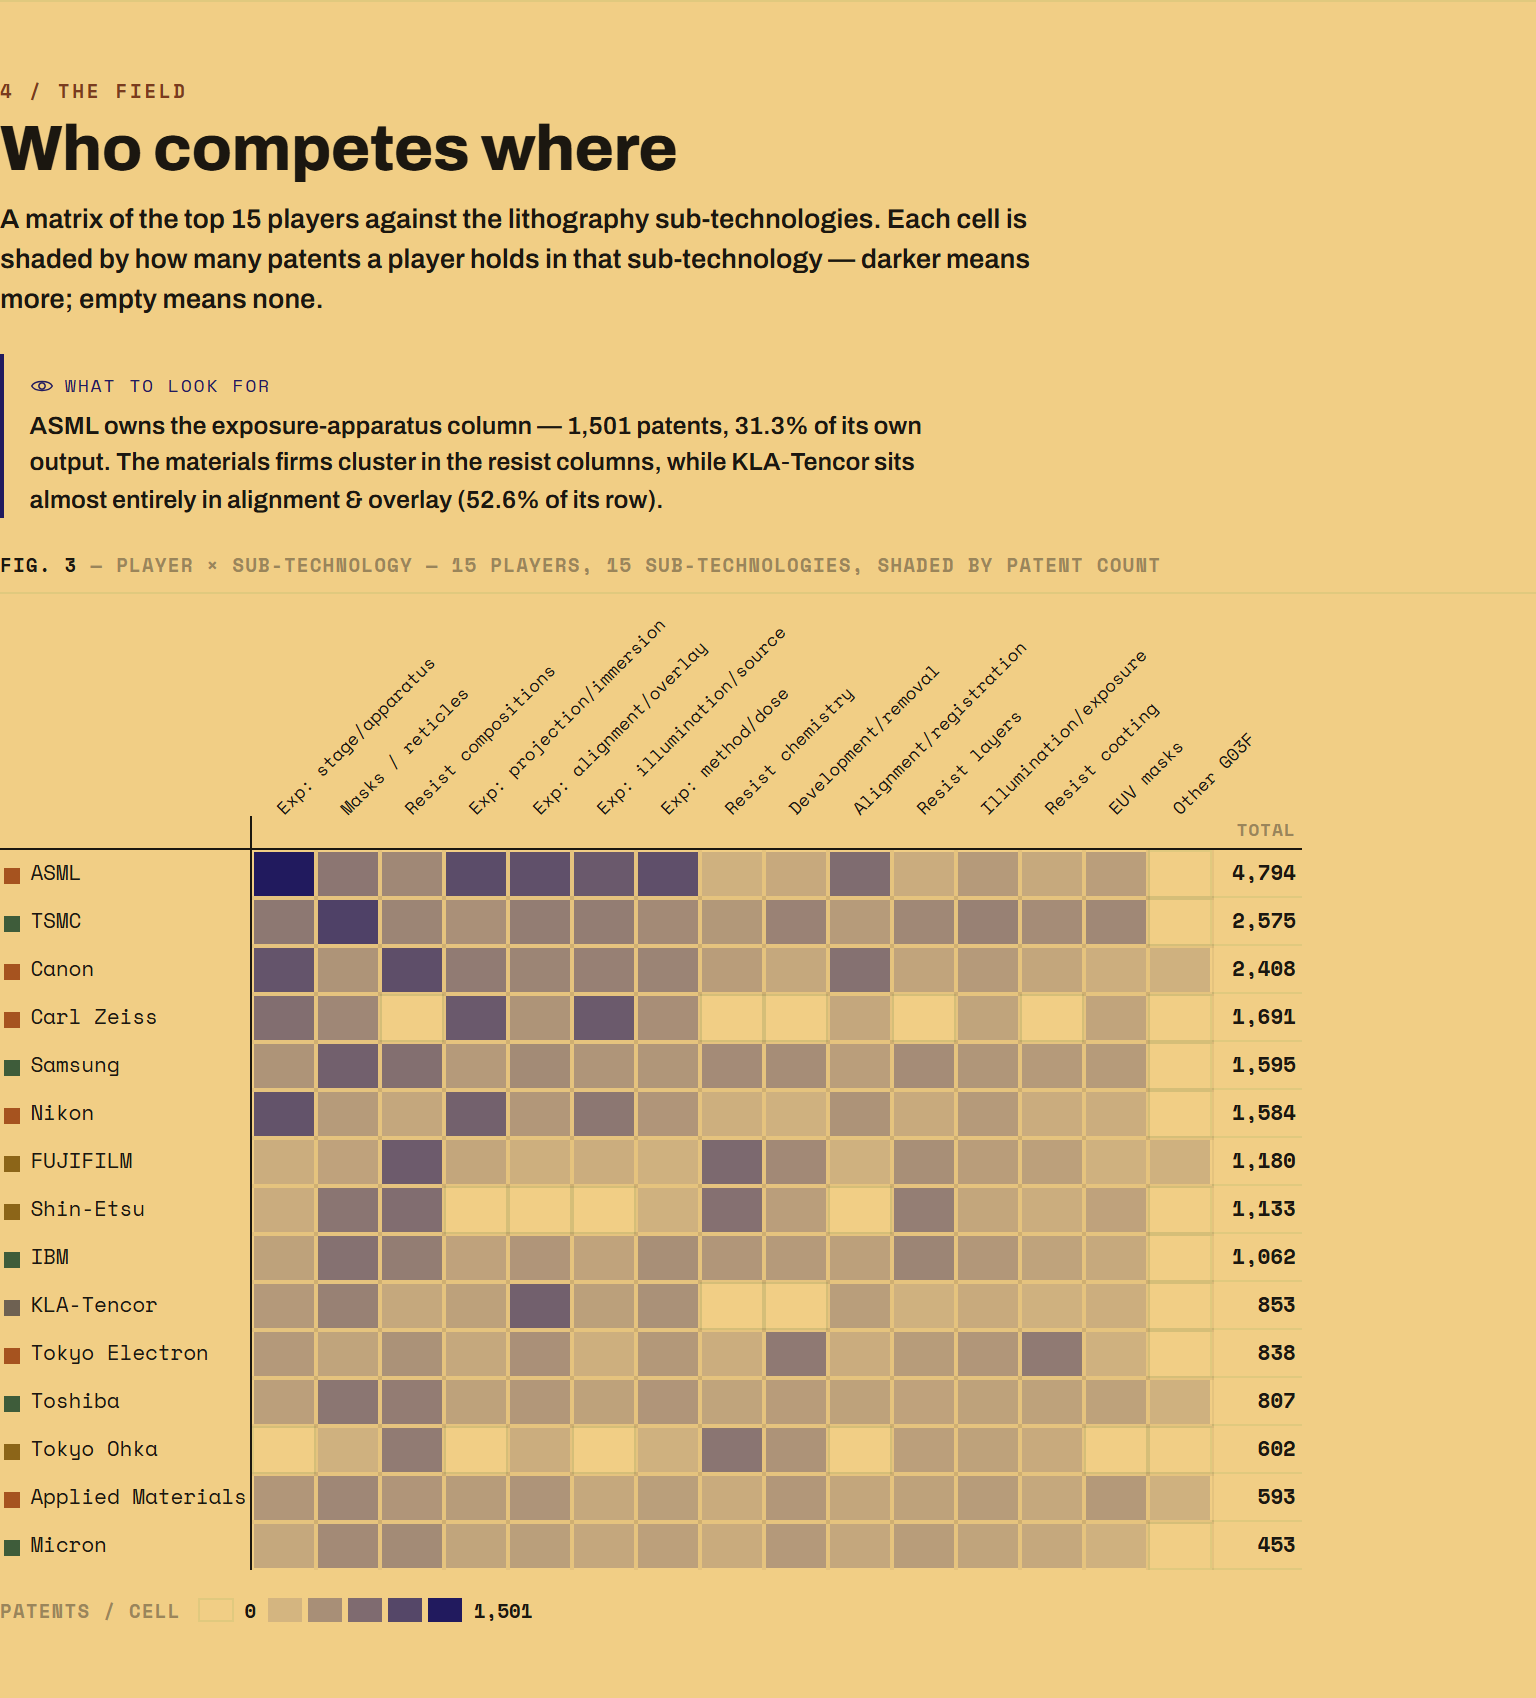
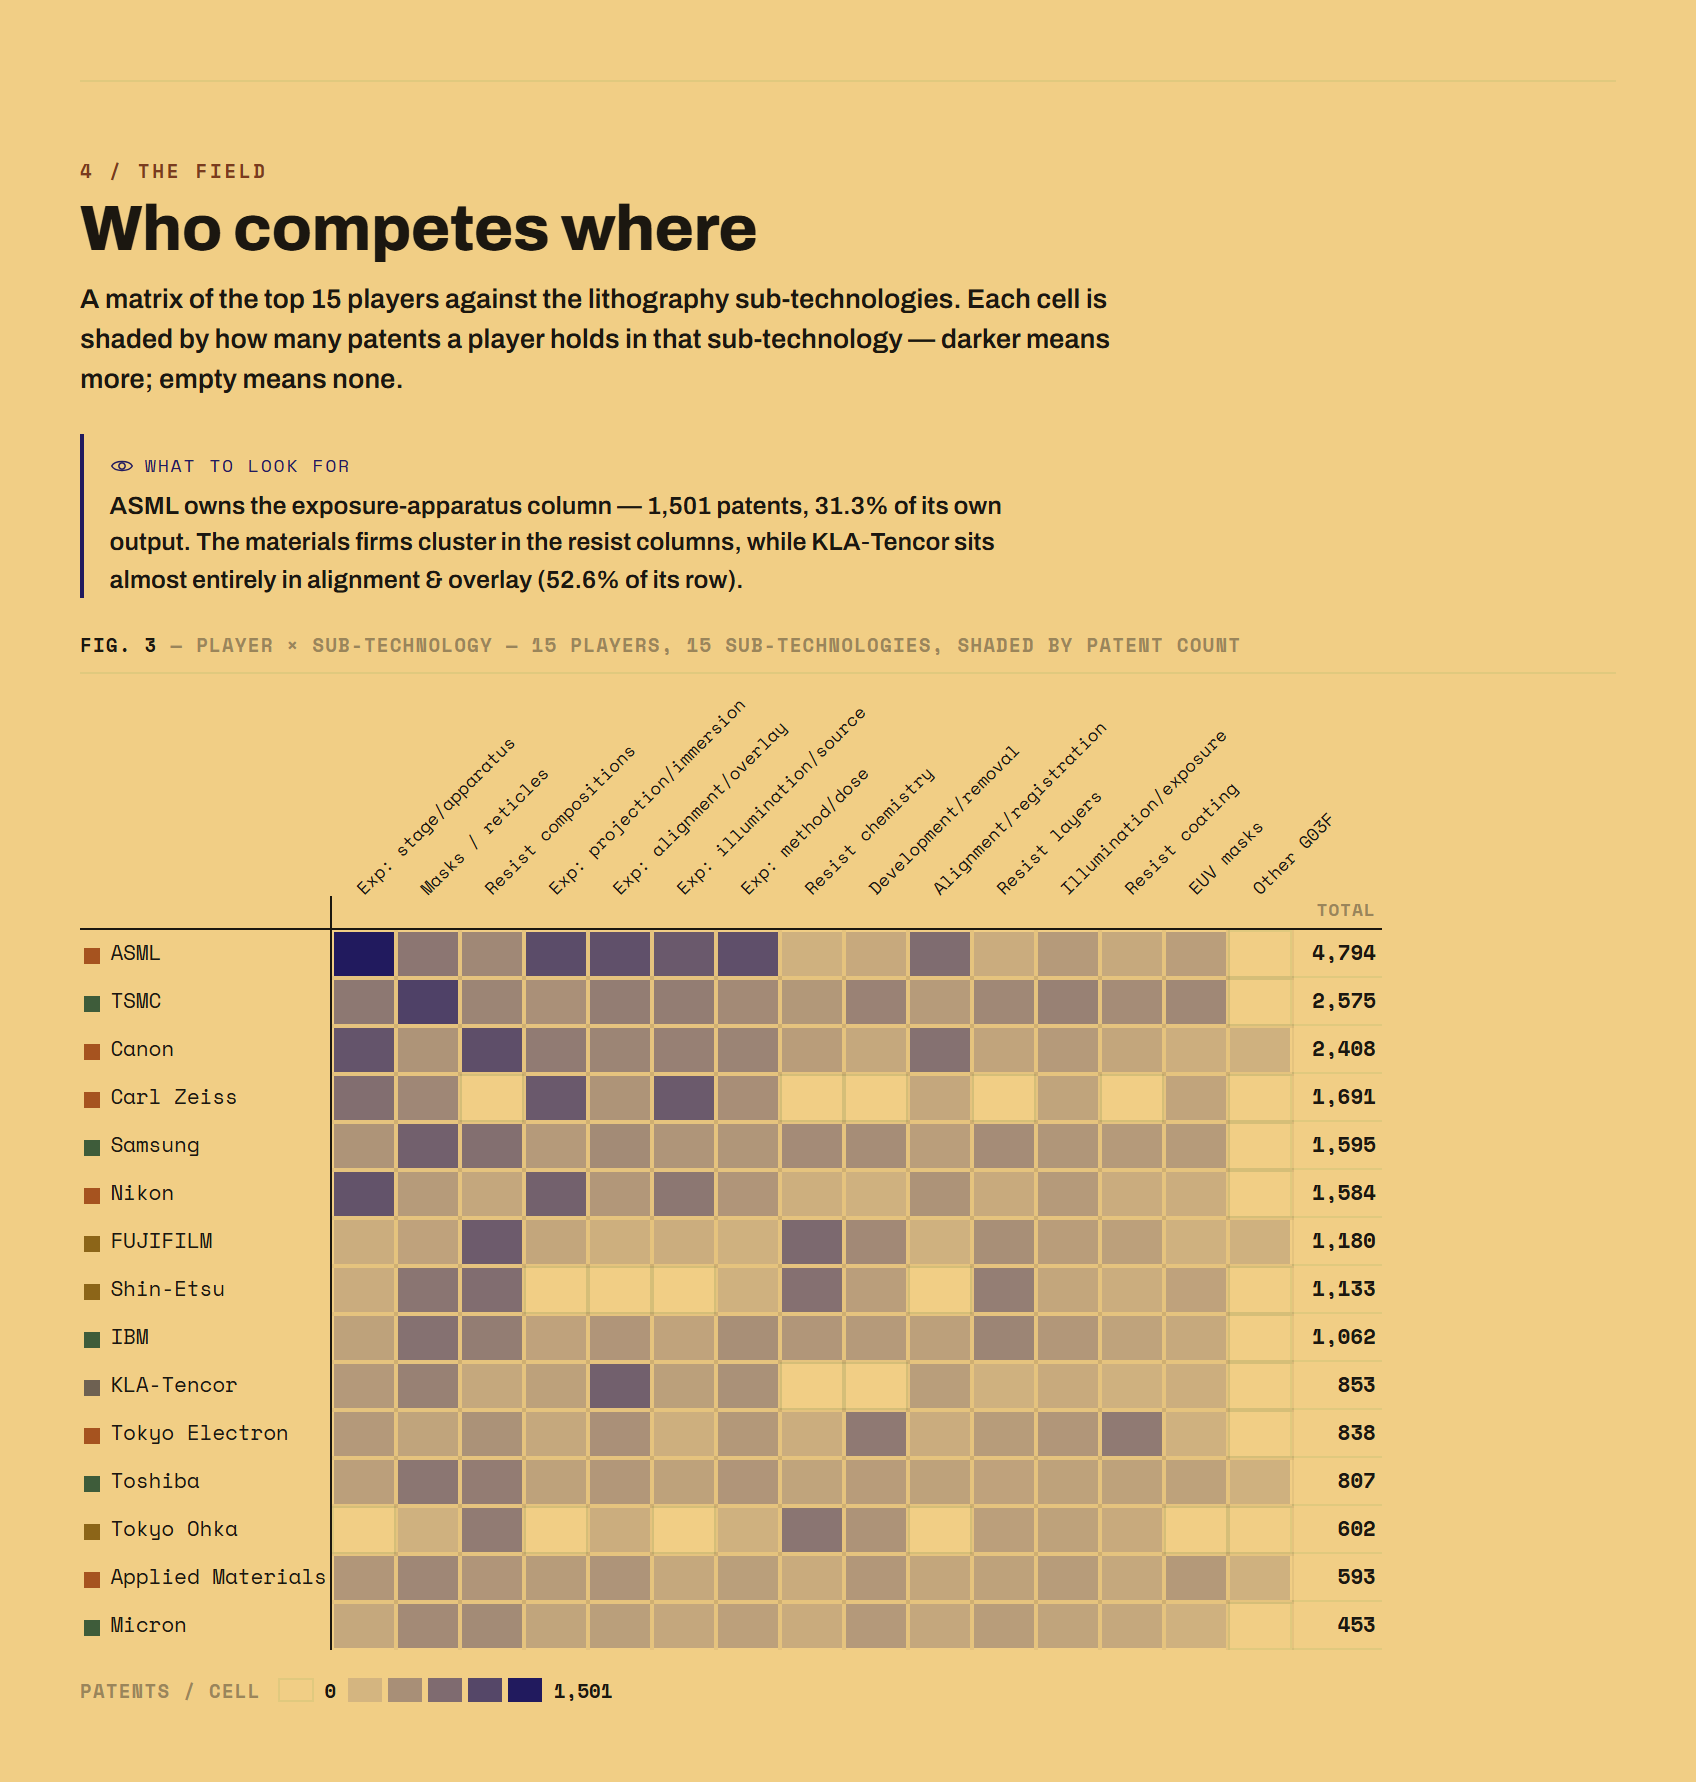
Drop 'The Shrinking Machine' from README title; pad chapter screenshots

Changed region(s): [[0.0, 0.0312, 0.8438, 0.9676], [0.6562, 0.3121, 0.75, 0.3746]]

diff --git a/README.md b/README.md
@@ -1,4 +1,4 @@
-# The Shrinking Machine — the lithography patent race
+# The lithography patent race
 
 Two decades of the semiconductor **lithography** patent race, reconstructed from real
 USPTO / PatentsView data: **41,321** granted patents in CPC subclass **`G03F`**
